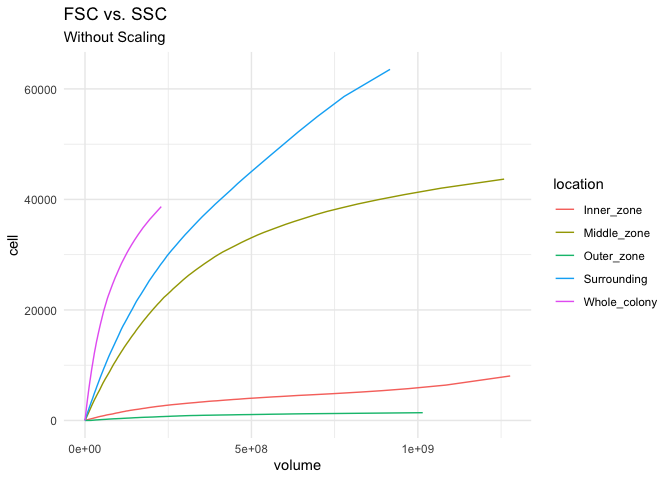
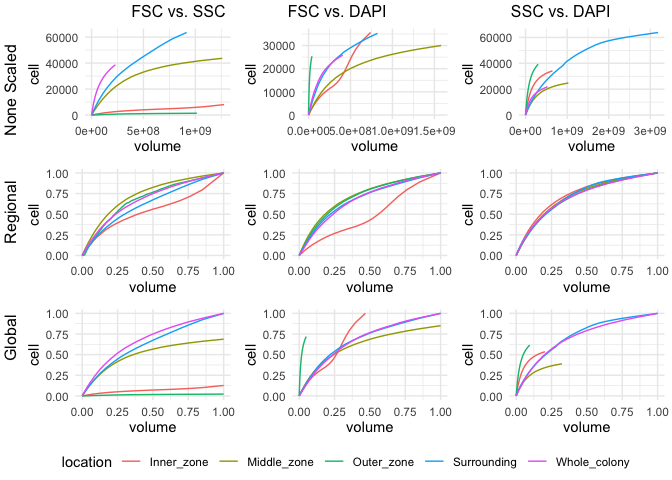
add methods comparison

diff --git a/workflow/02a-flowEMMi-for-Z-project.md b/workflow/02a-flowEMMi-for-Z-project.md
@@ -1,6 +1,6 @@
 02a-flowEMMi for-Z-project
 ================
-Compiled at 2023-10-24 23:25:08 UTC
+Compiled at 2023-10-26 08:47:01 UTC
 
 ``` r
 here::i_am(paste0(params$name, ".Rmd"), uuid = "11675b32-9913-442e-9b4a-03cdc39afb65")
@@ -510,54 +510,38 @@ plot_point <- function(roc_result){
 }
 ```
 
-### Different regions
-
-``` r
-# FSC vs. DAPI as example
-p1 <- plot_point(roc_19)
-
-ggplot(p1$raw.point,aes(x=volume,y=cell,color=location))+
-  geom_line()+labs(x="volume",y="cell",title="FSC vs. DAPI",subtitle = "Without Scaling")+
-  theme_minimal()
-```
-
-![](02a-flowEMMi-for-Z-project_files/figure-gfm/DAPI-location-1.png)<!-- -->
-
-``` r
-ggplot(p1$regional.scaled,aes(x=volume,y=cell,color=location))+
-  geom_line()+labs(x="volume",y="cell",title="FSC vs. DAPI",subtitle = "Regional maximum scaling")+
-  theme_minimal()
-```
-
-![](02a-flowEMMi-for-Z-project_files/figure-gfm/DAPI-location-2.png)<!-- -->
-
-``` r
-ggplot(p1$all.scaled,aes(x=volume,y=cell,color=location))+
-  geom_line()+labs(x="volume",y="cell",title="FSC vs. DAPI",subtitle = "Global maximum scaling")+
-  theme_minimal()
-```
-
-![](02a-flowEMMi-for-Z-project_files/figure-gfm/DAPI-location-3.png)<!-- -->
-
-### Different channels
+### Different channels and regions
 
 ``` r
 channels <- c("roc_12","roc_19","roc_29")
 names<-c("FSC vs. SSC","FSC vs. DAPI","SSC vs. DAPI")
-points <- list()
+point <- list()
 
 for (i in 1:3){
   data <- get(channels[i])
   roc <- plot_point(data)
   name <- names[i]
   
-  print(ggplot(roc$raw.point,aes(x=volume,y=cell,color=location))+
-    geom_line()+labs(x="volume",y="cell",title=name,subtitle = "Without Scaling")+
-    theme_minimal())
+  point[[i]] <- ggplot(roc$raw.point,aes(x=volume,y=cell,color=location))+
+    geom_line()+labs(x="volume",y="cell")+
+    theme_minimal()
+  
+  point[[i+3]] <- ggplot(roc$regional.scaled,aes(x=volume,y=cell,color=location))+
+    geom_line()+labs(x="volume",y="cell")+
+    theme_minimal()
+  
+  point[[i+6]] <- ggplot(roc$all.scaled,aes(x=volume,y=cell,color=location))+
+    geom_line()+labs(x="volume",y="cell")+
+    theme_minimal()
 }
+
+complete <- ggarrange(plotlist = point,ncol=3, nrow=3, common.legend = TRUE, legend="bottom")
+annotate_figure(complete,
+                top = "           FSC vs. SSC              FSC vs. DAPI                            SSC vs. DAPI",
+                left = "                 Global                Regional          None Scaled")
 ```
 
-![](02a-flowEMMi-for-Z-project_files/figure-gfm/DAPI-channel-1.png)<!-- -->![](02a-flowEMMi-for-Z-project_files/figure-gfm/DAPI-channel-2.png)<!-- -->![](02a-flowEMMi-for-Z-project_files/figure-gfm/DAPI-channel-3.png)<!-- -->
+![](02a-flowEMMi-for-Z-project_files/figure-gfm/DAPI-channel-1.png)<!-- -->
 
 ### Gating vs. meta-clustering
 
@@ -568,23 +552,105 @@ point <- list()
 p1 <- plot_point(roc_19)
 p2 <- plot_point(roc_meta_19)
 
-for (i in location){
-  data1 <- p1$raw.point %>% dplyr::filter(location==i)
-  data2 <- p2$raw.point %>% dplyr::filter(location==i)
+for (i in 1:5){
+  var <- location[i]
+  data1 <- p1$raw.point %>% dplyr::filter(location==var)
+  data2 <- p2$raw.point %>% dplyr::filter(location==var)
   
   data1$type <- "gating"
   data2$type <- "meta-clustering"
   
   data <- rbind(data1,data2)
   
-  print(ggplot(data,aes(x=volume,y=cell,color=type))+
-    geom_line()+labs(x="volume",y="cell",title=i,
-                     subtitle = "FSC vs. DAPI \nWithout Scaling")+
-    theme_minimal())
+  point[[i]] <- ggplot(data,aes(x=volume,y=cell,color=type))+
+    geom_line()+labs(x="volume",y="cell",title=var)+
+    theme_minimal()
 }
+
+
+complete <- ggarrange(plotlist = point,
+          ncol=3, nrow=2, common.legend = TRUE, legend="bottom")
+annotate_figure(complete,top = "FSC vs. DAPI: Without Scaling")
 ```
 
-![](02a-flowEMMi-for-Z-project_files/figure-gfm/DAPI-meta-1.png)<!-- -->![](02a-flowEMMi-for-Z-project_files/figure-gfm/DAPI-meta-2.png)<!-- -->![](02a-flowEMMi-for-Z-project_files/figure-gfm/DAPI-meta-3.png)<!-- -->![](02a-flowEMMi-for-Z-project_files/figure-gfm/DAPI-meta-4.png)<!-- -->![](02a-flowEMMi-for-Z-project_files/figure-gfm/DAPI-meta-5.png)<!-- -->
+![](02a-flowEMMi-for-Z-project_files/figure-gfm/DAPI-meta-1.png)<!-- -->
+
+### Different methods
+
+``` r
+roc_flowEMMI <- readRDS("~/Desktop/MSc_new_data/roc_DAPI.rds")
+roc_GMM_flex <- readRDS("~/Desktop/MSc_new_data/GMM.roc.flex19.rds")
+roc_GMM_fixed <- readRDS("~/Desktop/MSc_new_data/GMM.roc.fix19.rds")
+roc_flowClust_flex <- readRDS("~/Desktop/MSc_new_data/fC.roc.flex19.rds")
+
+data1 <- roc_flowEMMI[[1]]
+data1$method <- as.factor("flowEMMI")
+
+data2 <- roc_GMM_flex[[1]]$roc.table
+data2$method <- as.factor("GMM_flex")
+
+data3 <- roc_GMM_fixed[[1]]$roc.table
+data3$method <- as.factor("GMM_fixed")
+
+data4 <- roc_flowClust_flex[[1]]$roc.table
+data4$method <- as.factor("flowClust")
+
+plot.points <- data.frame()
+plot.scale <- data.frame()
+plot.scale.points <- data.frame()
+
+for (i in 1:4){
+  var <- paste0("data",i)
+  data <- get(var)
+  data[1,1:2] <- c(0,0)
+  
+  # No Scaling
+  plot.points <- rbind(plot.points,data)
+  
+  # Scaled by regional maximum
+  max <- data[100,]
+  for (j in 1:100){
+    data[j,1] <- data[j,1]/max[1,1]
+    data[j,2] <- data[j,2]/max[1,2]
+  }
+  plot.scale <- rbind(plot.scale,data)
+  
+  # Scaled by the max number among all regions
+  plot.scale.points <- plot.points
+  
+  for (j in 2:nrow(plot.points)){
+    plot.scale.points[j,1]<- plot.scale.points[j,1]/max(plot.scale.points[,1])
+    plot.scale.points[j,2]<- plot.scale.points[j,2]/max(plot.scale.points[,2])
+    }
+  }
+  
+  #return(raw.point=plot.points,reginal.scaled=plot.scale,all.scaled=plot.scale.points)
+
+  print(ggplot(plot.points, aes(x = volume, y = cell, color = method)) +
+    geom_line() +
+    labs(x = "volume", y = "cell", title = "FSC vs.DAPI in diff. methods", subtitle = "Without scaling") +
+    theme_minimal())
+```
+
+![](02a-flowEMMi-for-Z-project_files/figure-gfm/DAPI-method-1.png)<!-- -->
+
+``` r
+  print(ggplot(plot.scale, aes(x = volume, y = cell, color = method)) +
+    geom_line() +
+    labs(x = "volume", y = "cell", title = "FSC vs.DAPI in diff. methods", subtitle = "Scaled by each regional maximum") +
+    theme_minimal())
+```
+
+![](02a-flowEMMi-for-Z-project_files/figure-gfm/DAPI-method-2.png)<!-- -->
+
+``` r
+  print(ggplot(plot.scale.points, aes(x = volume, y = cell, color = method)) +
+    geom_line() +
+    labs(x = "volume", y = "cell", title = "FSC vs.DAPI in diff. methods", subtitle = "Scaled by max number over all regions") +
+    theme_minimal())
+```
+
+![](02a-flowEMMi-for-Z-project_files/figure-gfm/DAPI-method-3.png)<!-- -->
 
 ## Files written
 
